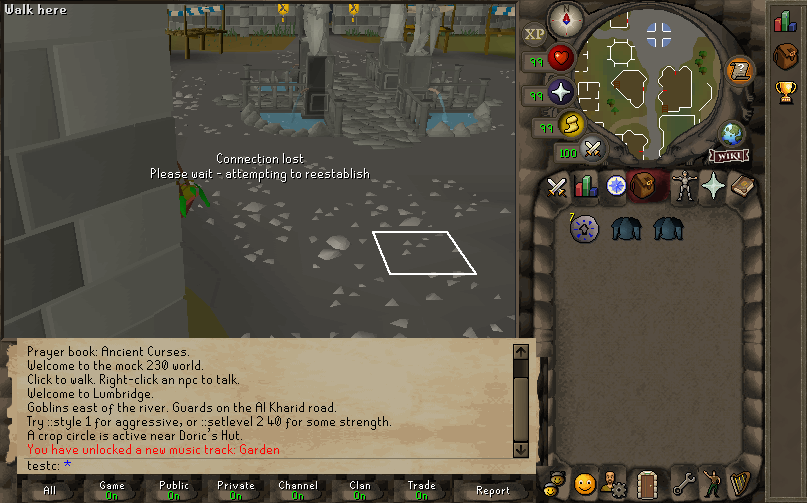
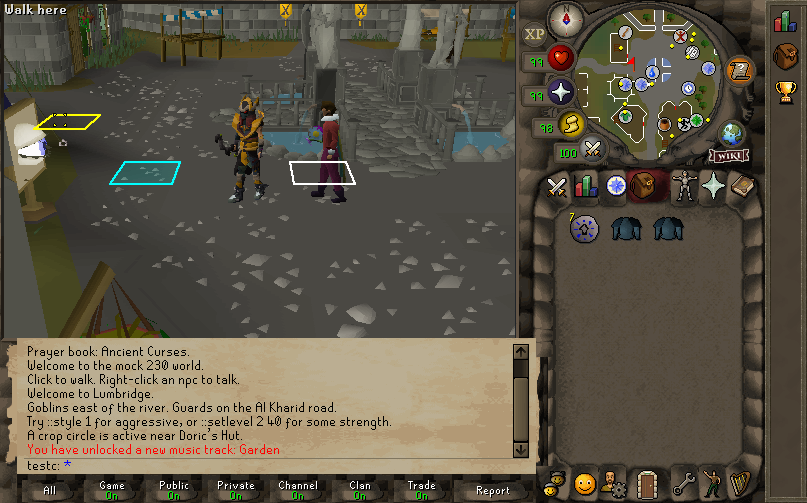
tile indicator: the two defects were in the drive, not the script
Both shots the tile indicator was judged on were taken by a harness that
disconnected the client and never delivered the hover, and script/plugins/
tile_indicator.lua is unchanged: it drew the three markers correctly the whole
time and there was nothing in any picture to show it.

frame_loop_teardown's TORIRS_SIM_HOVER frames had two faults.

1. They stamped themselves 20, 40, 60, 80 ms -- a clock that jumps tens of
   seconds BACKWARDS from the loop's. app_net_link_watch measures the server's
   silence as now - last_recv_ms in UNSIGNED milliseconds, so the jump read as
   eighteen quintillion of them, the 15 s timeout fired on the first frame, and
   the session was torn down before the BMP. Every capture driven with
   TORIRS_SIM_HOVER -- six of the set, across four plugins -- came back with
   "Connection lost" over an empty world: no local player, so no true tile, no
   destination and no hover. They now continue app.last_frame_ms.

   The other half of that is in the watch itself: detector 2 subtracted without
   an ordering test while detector 1 is handed its gap with one applied
   (app_net_link_watch). A clock that went backwards is not evidence about the
   server, so it no longer answers as though it were, and the test proves it --
   removing the guard fails three CHECKs.

2. They did not RENDER, and the scene pick runs inside App_Render. So the
   pointer moved and the hover tile did not: the marker stayed where the main
[…]

diff --git a/src/main.c b/src/main.c
@@ -3433,13 +3433,64 @@ frame_loop_teardown(void)
             char* hov_sep = NULL;
             int hov_x = (int)strtol(getenv("TORIRS_SIM_HOVER"), &hov_sep, 0);
             int hov_y = hov_sep && *hov_sep == ',' ? (int)strtol(hov_sep + 1, NULL, 0) : 0;
+            /*
+             * These four frames continue the loop's clock; they do not start a
+             * new one.
+             *
+             * They used to be stamped 20, 40, 60, 80 ms, which on a run that
+             * had been up for half a minute handed App_RunOnce a clock that
+             * jumped THIRTY SECONDS BACKWARDS. app_net_link_watch measures the
+             * server's silence as now - last_recv_ms in unsigned milliseconds,
+             * so the jump read as a silence of some eighteen quintillion of
+             * them, the 15 s timeout fired on the first of the four, and the
+             * session was torn down before the BMP was written. Every capture
+             * driven with TORIRS_SIM_HOVER came back with "Connection lost"
+             * across the viewport, no local player, and therefore nothing for
+             * a world overlay -- a tile marker, a loot beam, an entity
+             * highlight -- to draw on: the plugin was photographed as blank
+             * and read as broken.
+             *
+             * app.last_frame_ms is the wall clock of the last completed
+             * App_RunOnce, which is exactly the frame these continue from; the
+             * step stays 20 ms so each one is still one logic tick.
+             */
+            uint64_t const hov_base = app.last_frame_ms;
+            /*
+             * And each of them RENDERS, because a frame that does not render
+             * does not pick.
+             *
+             * App_RunOnce only latches the mouse point; the scene pick runs
+             * inside App_Render (hittest as each visible model projects) and
+             * app_world_pick_finish writes world_hover_tile from it, so the
+             * hover tile any overlay reads is the LAST RENDER's. Four
+             * logic-only frames therefore moved the pointer and left the pick
+             * exactly where the main loop's final frame had put it: on the CS2
+             * lane the mouse had never been in the viewport, so hover_tile()
+             * answered "nothing" and the tile indicator drew no hover marker at
+             * all; on the live CS1 lane the pointer had last been at the login
+             * click, so the marker sat on a roof a hundred pixels from where
+             * TORIRS_SIM_HOVER asked for it -- and both pictures looked like a
+             * plugin that draws in the wrong place rather than a drive that
+             * never delivered the hover.
+             *
+             * Rendered into a scratch buffer of the same size the exit dump
+             * uses: what is wanted here is the pick and the hover state each
+             * frame leaves behind, and the picture that gets written is still
+             * the one App_Render produces below.
+             */
+            int* hov_pixels =
+                calloc((size_t)UITREE_LAYOUT_ROOT_W * UITREE_LAYOUT_ROOT_H, sizeof(int));
+            assert(hov_pixels);
             for( int t = 0; t < 4; t++ )
             {
-                LibToriRS_Input_Begin(hov_input, (uint64_t)(t + 1) * 20);
+                uint64_t const hov_now = hov_base + (uint64_t)(t + 1) * 20;
+                LibToriRS_Input_Begin(hov_input, hov_now);
                 LibToriRS_Input_PushMouseMove(hov_input, hov_x, hov_y);
                 LibToriRS_Input_End(hov_input);
-                App_RunOnce(&app, (uint64_t)(t + 1) * 20, hov_input);
+                App_RunOnce(&app, hov_now, hov_input);
+                App_Render(&app, hov_pixels, UITREE_LAYOUT_ROOT_W, UITREE_LAYOUT_ROOT_H);
             }
+            free(hov_pixels);
             TORIRS_LOG(
                 "sim_hover: parked at %d,%d hover_com_id=%d\n", hov_x, hov_y, app.hover_com_id);
         }

diff --git a/src/net/test/net_link_watch_test.c b/src/net/test/net_link_watch_test.c
@@ -200,6 +200,37 @@ test_the_server_going_quiet(void)
 }
 
 static void
+test_a_clock_that_went_backwards_is_not_silence(void)
+{
+    struct NetLinkWatch watch = live_session();
+    struct NetLinkSighting seen;
+
+    printf("TEST: a frame stamped before the last packet is not a silent server\n");
+
+    /*
+     * now_ms and last_recv_ms are unsigned. A frame whose clock reads EARLIER
+     * than the last packet subtracts to something near 2^64, which is over
+     * every threshold there is, so the naive difference declares a session
+     * that has just been spoken to dead on the spot.
+     *
+     * That is not a hypothetical: the harness drove its post-loop hover frames
+     * from a clock that restarted at 20 ms, and every screenshot taken with
+     * TORIRS_SIM_HOVER came back showing "Connection lost" over an empty
+     * world. The frames were fixed to continue the loop's clock, and this is
+     * the other half -- the detector cannot measure silence with a clock that
+     * went backwards, so it does not try.
+     */
+    seen = healthy(20);
+    CHECK(step(&watch, &seen) == NET_LINK_IDLE, "a backwards clock read as a silent server");
+    CHECK(!NetLinkWatch_Lost(&watch), "a backwards clock lost a live session");
+
+    /* And the link is still watched afterwards: once the clock is ahead of the
+     * last packet again, the ordinary timeout still bites on the bound. */
+    seen = healthy(1000 + NET_LINK_TIMEOUT_MS);
+    CHECK(step(&watch, &seen) == NET_LINK_LOST, "the timeout stopped working after the jump");
+}
+
+static void
 test_the_login_handshake_may_sit_quiet(void)
 {
     struct NetLinkWatch watch = live_session();
@@ -544,6 +575,7 @@ main(void)
     test_a_client_that_was_never_connected_loses_nothing();
     test_the_session_origin_is_the_first_packet();
     test_the_server_going_quiet();
+    test_a_clock_that_went_backwards_is_not_silence();
     test_the_login_handshake_may_sit_quiet();
     test_the_client_not_running();
     test_a_long_frame_is_not_a_stall();

diff --git a/src/net/net_link_watch.c b/src/net/net_link_watch.c
@@ -103,8 +103,20 @@ NetLinkWatch_Step(
         if( seen->frame_gap_ms >= (uint64_t)NET_LINK_STALL_MS )
             return net_link_lost(watch, "client was not running", out_reason);
 
-        /* 2. The server stopped speaking -- in the game stream only. */
-        if( seen->in_game && seen->now_ms - watch->last_recv_ms >= (uint64_t)NET_LINK_TIMEOUT_MS )
+        /*
+         * 2. The server stopped speaking -- in the game stream only.
+         *
+         * Measured only forwards. These are unsigned milliseconds, so a frame
+         * stamped EARLIER than the last packet subtracts to something near
+         * 2^64 and reads as a silence of half a billion years -- the timeout
+         * fires instantly on a session that has just been spoken to. A clock
+         * that went backwards is not evidence of anything about the server,
+         * and the stall detector above is already handed its gap with the same
+         * ordering test applied (app_net_link_watch); this is that test, said
+         * about the other detector.
+         */
+        if( seen->in_game && seen->now_ms > watch->last_recv_ms &&
+            seen->now_ms - watch->last_recv_ms >= (uint64_t)NET_LINK_TIMEOUT_MS )
             return net_link_lost(watch, "no packets for 15s", out_reason);
 
         /* 3. The transport says the socket is gone. */

diff --git a/tools/porcelain_gate/shots/README.md b/tools/porcelain_gate/shots/README.md
@@ -222,13 +222,29 @@ the run is 700 frames after all — which is how a cannon drive scheduled at
 frame 1400 came back with no cannon fired and no error. Pass
 `TORIRS_MAX_FRAMES` in that list instead; `env` takes it last-wins.
 
-**`TORIRS_SIM_HOVER` puts "Connection lost" across the viewport.** It parks the
-pointer for four extra interact frames after the main loop has stopped, and the
-net link times out in them. Same plugin, same lane, run serially: with
-`TORIRS_SIM_HOVER` the banner is there, without it the frame is clean. It is in
-`pages/BEFORE_itemstats_hover.png` too, so it is not new and it is not load. A
-hover state that can be reached with `TORIRS_SIM_MOVE_AT` during the run should
-be, and `*-nohover-*.png` is the same plugin without it.
+**`TORIRS_SIM_HOVER` used to put "Connection lost" across the viewport, and to
+hover the wrong tile.** FIXED -- both halves were in `frame_loop_teardown`, and
+any shot older than that fix which was driven with `TORIRS_SIM_HOVER` shows one
+or both. They are worth knowing by sight, because that is how you date a shot:
+
+- The four extra interact frames after the main loop were stamped 20, 40, 60,
+  80 ms, a clock that jumps tens of seconds BACKWARDS from the loop's. The net
+  watch measures the server's silence in unsigned milliseconds, so the jump read
+  as a silence of eighteen quintillion of them and tore the session down before
+  the BMP. Every `TORIRS_SIM_HOVER` capture therefore came back with the banner,
+  no player model and nothing for a world overlay to draw on -- the tile
+  indicator's own headline shot was a blank grey floor, and read as a plugin
+  that draws nothing. It is in `pages/BEFORE_itemstats_hover.png` too.
+- Those frames also did not RENDER, and the scene pick runs inside the render.
+  So the pointer moved and the hover tile did not: the marker stayed on whatever
+  tile the main loop's last frame had picked -- nothing at all on CS2, where the
+  mouse had never been in the viewport, and the login click's tile on cs1live,
+  a hundred pixels from where the drive asked to hover.
+
+Both are gone: the frames continue `app.last_frame_ms` and each one renders. A
+hover state that can be reached with `TORIRS_SIM_MOVE_AT` during the run still
+should be -- it is one frame cheaper and it is what a real pointer does --
+and `*-nohover-*.png` is the same plugin without any hover at all.
 
 One correction to the openers table above: `TORIRS_SIM_CLICK_AT` is
 `frame,x,y[,right]`, frame FIRST, not `x,y,<tick>`.

diff --git a/tools/porcelain_gate/README.md b/tools/porcelain_gate/README.md
@@ -196,6 +196,26 @@ isolated `stone601` rerun of an *unchanged* plugin has been observed to drop a
 control entirely and shift 58 scene ids. Eight lanes run sequentially are stable;
 one lane run on a busy machine is not. Judge a set, never a lane.
 
+**A whole set is not perfectly stable either, and there are two shapes of
+false red.** Both were met in one sitting, and both cost a set to identify.
+
+*A lane that reads as zero.* `gate_diff.py` printed `bounds 7195 -> 0` for
+`remount164`, and on the next invocation of the identical command printed the
+same thing for `remount548` instead while `remount164` passed. Neither log had
+changed: both hold their 7 000-odd BOUNDS lines, and `grep -c` says so. A lane
+whose after-side reads as exactly zero on one run and fine on the next is a
+failed READ, not a failed capture -- re-run the diff before you believe it, and
+check the log with `grep -c 'BOUNDS com='` if it says it twice.
+
+*A chrome piece that comes and goes.* One capture of `classic548` and
+`classic161` had a fourteenth `piece.13` at 0,338 553x165 that the same binary
+did not produce on its next run -- the layout line says `14 chrome pieces` in
+one and `15` in the other. Two before-sets and a second after-set all said 65
+owned controls; the odd set said 66. So a single added or dropped piece on the
+two Classic Fixed lanes, with no other difference anywhere in the set, is worth
+a second set before it is worth an argument. A real change moves more than one
+lane, or moves the same lane twice.
+
 ## Data versus code
 
 The caches and content come from `TORIRS_GATE_REPO` (default: this checkout).
